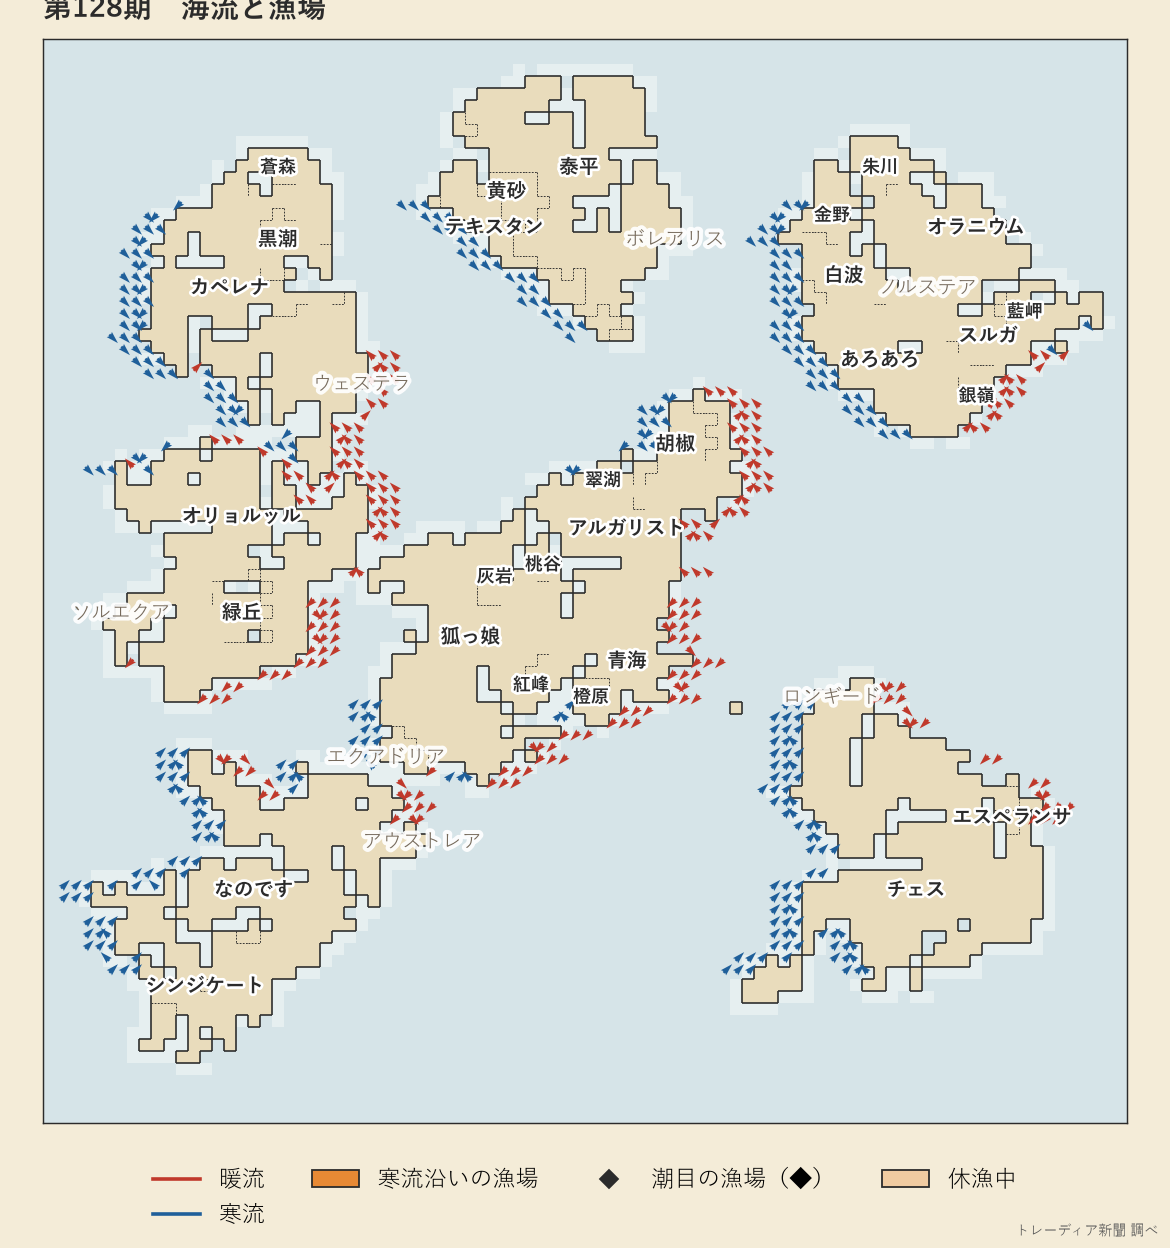
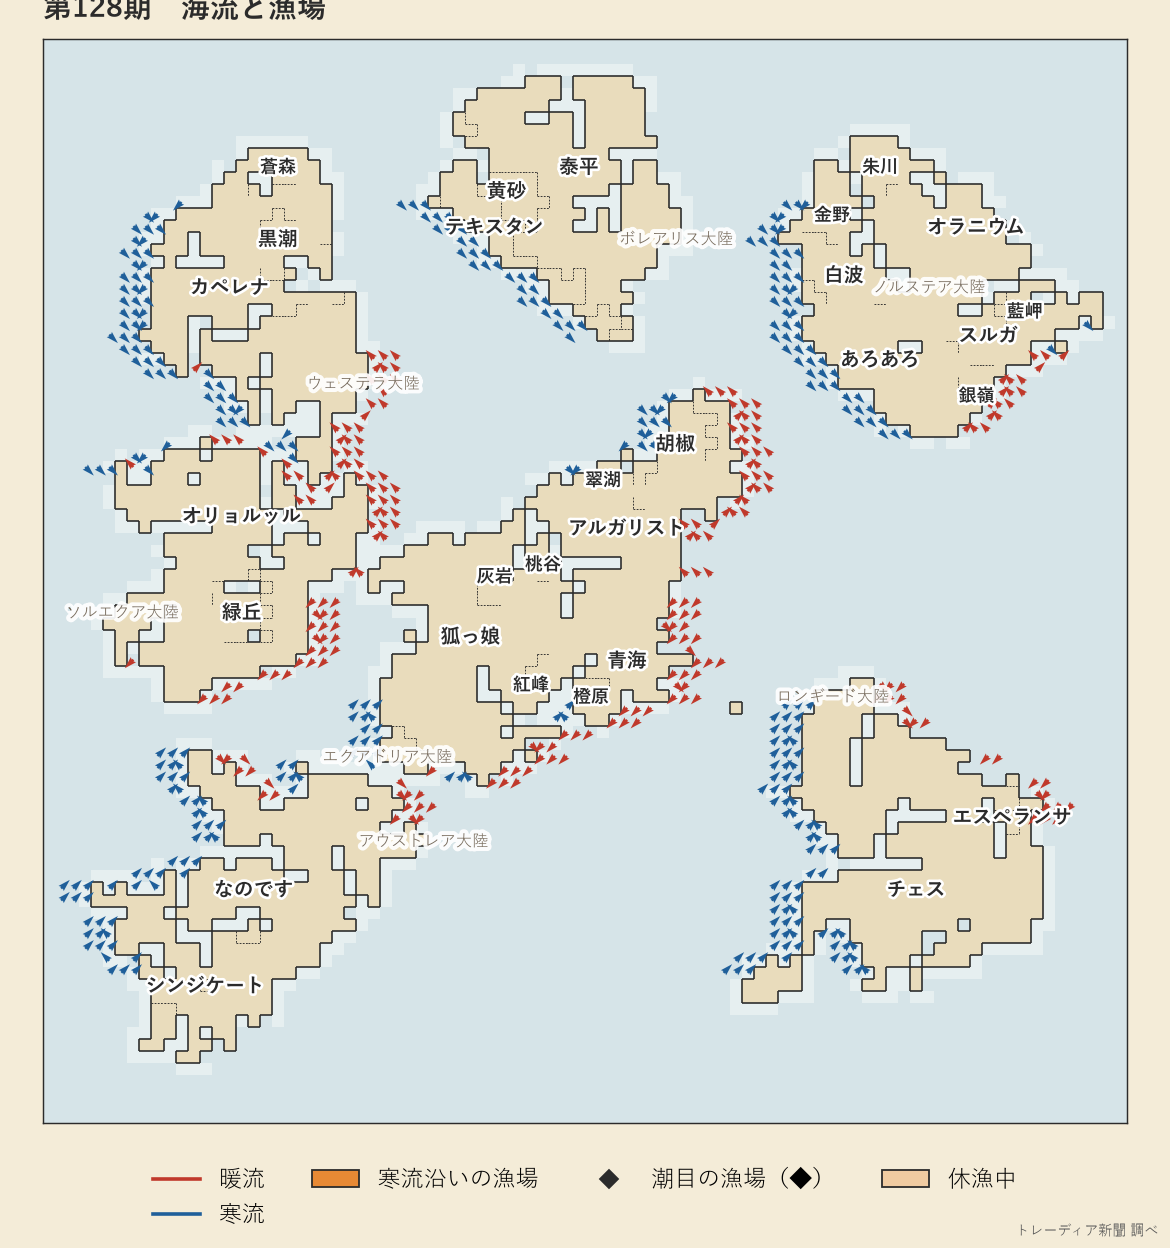
第128期 朝刊

diff --git a/issues/128-朝刊.html b/issues/128-朝刊.html
@@ -650,7 +650,7 @@ b.sea { color: #1f5f7a; font-weight: 800; }
 </header>
 <div class="ticker">
   <span><b>主な記事</b></span>
-  <span>エクアドリアに13か国</span>
+  <span>エクアドリア大陸に13か国</span>
   <span>皇国、新都を失う</span>
   <span>火災32,100人</span>
   <span>弾薬93.52</span>
@@ -664,7 +664,7 @@ b.sea { color: #1f5f7a; font-weight: 800; }
     <div class="sheet-top"><span class="tag">総合</span>大陸を越える<span class="pageno">1</span></div>
     <div class="sheet-body front">
       <div class="story">
-        <h1 class="v-headline">エクアドリアに国は13　<br>都の外から4か国も入る</h1>
+        <h1 class="v-headline">エクアドリア大陸に国は13　<br>都の外から4か国も入る</h1>
         <p class="v-sub">都を置くのは9　陸だけの4はあろあろ、なのです、オリョルッル、泰平</p>
         <figure class="photo">
           <img class="fitphoto" src="../images/128-朝刊/128-shore.jpg" alt="沖の蒸気船から、森の岸へ降りる兵と荷を背負う人々">
@@ -672,12 +672,12 @@ b.sea { color: #1f5f7a; font-weight: 800; }
         </figure>
         <div class="v">
           <p class="lead noindent"><span class="dateline">【総合部】</span>都のある大陸の外に陸を持つ国は、四つある。オリョルッル王国、なのです主義人民共和国、あろあろ国、泰平天国である。</p>
-          <p>今週、新しく外の大陸を占領したのはオリョルッルとなのですである。オリョルッルはウェステラの森と荒地を7区画、エクアドリアの森を2区画取った。故郷のソルエクアでも中立の森と荒地を4区画加え、国の広さは262区画から275区画になった。王国はどの国とも戦争をしていない。人口は661,500人、兵力は487,100人。空は曇り。なのですはウェステラの森を1区画取り、故郷のアウストレアでは中立の森と残党の山をそれぞれ1区画占領した。国の広さは288区画から291区画。人口は926,000人、兵力は459,900人。電都は晴れ。</p>
-          <p>エクアドリアに陸を持つ国は13で、七つの大陸のうちいちばん多い。都を置くのは青海、狐っ娘の尻尾教団、アルガリスト、胡椒、灰岩、紅峰、翠湖、橙原、桃谷の9である。都を別の大陸に置いたまま、この大陸に陸だけを持つ国が4つある。あろあろが16区画、なのです7区画、オリョルッルが5区画、泰平が4区画。首都を今は置けていないエスペランサ皇国の陸は、ロンギードに6区画ある。ロンギードの2か国はチェスと皇国である。13の国が陸を接するエクアドリアは火薬庫のような大陸で、今週はその一つ、泰平がアルガリストへ宣戦した。</p>
-          <p>あろあろの都はノルステアにある。エクアドリアに16区画、ボレアリスに2区画をすでに持つ。今週新しくした陸は、故郷の平地1区画である。</p>
+          <p>今週、新しく外の大陸を占領したのはオリョルッルとなのですである。オリョルッルはウェステラ大陸の森と荒地を7区画、エクアドリア大陸の森を2区画取った。故郷のソルエクア大陸でも中立の森と荒地を4区画加え、国の広さは262区画から275区画になった。王国はどの国とも戦争をしていない。人口は661,500人、兵力は487,100人。空は曇り。なのですはウェステラ大陸の森を1区画取り、故郷のアウストレア大陸では中立の森と残党の山をそれぞれ1区画占領した。国の広さは288区画から291区画。人口は926,000人、兵力は459,900人。電都は晴れ。</p>
+          <p>エクアドリア大陸に陸を持つ国は13で、七つの大陸のうちいちばん多い。都を置くのは青海、狐っ娘の尻尾教団、アルガリスト、胡椒、灰岩、紅峰、翠湖、橙原、桃谷の9である。都を別の大陸に置いたまま、この大陸に陸だけを持つ国が4つある。あろあろが16区画、なのです7区画、オリョルッルが5区画、泰平が4区画。首都を今は置けていないエスペランサ皇国の陸は、ロンギード大陸に6区画ある。ロンギード大陸の2か国はチェスと皇国である。13の国が陸を接するエクアドリア大陸は火薬庫のようで、今週はその一つ、泰平がアルガリストへ宣戦した。</p>
+          <p>あろあろの都はノルステア大陸にある。エクアドリア大陸に16区画、ボレアリス大陸に2区画をすでに持つ。今週新しくした陸は、故郷の平地1区画である。</p>
           <h3>泰平、北の森を広げて宣戦</h3>
-          <p>泰平天国の都・天都はボレアリスにある。エクアドリアには、軍港と大農場を含む4区画をすでに持つ。今週、泰平は故郷のボレアリスで中立の森を4区画広げ、国の広さは147区画から152区画になった。人口は399,100人、兵力は395,500人。人手の不足はゼロ。天都は晴れ。</p>
-          <p>同じ週、泰平はエクアドリアに都を置くアルガリスト帝国へ宣戦を告げた。戦いが始まるのは第133期である。今週、両国のあいだに損害は出ていない。北で森を広げ、南の大陸には足場を残したまま、数週先の戦いを告げた国である。</p>
+          <p>泰平天国の都・天都はボレアリス大陸にある。エクアドリア大陸には、軍港と大農場を含む4区画をすでに持つ。今週、泰平は故郷のボレアリス大陸で中立の森を4区画広げ、国の広さは147区画から152区画になった。人口は399,100人、兵力は395,500人。人手の不足はゼロ。天都は晴れ。</p>
+          <p>同じ週、泰平はエクアドリア大陸に都を置くアルガリスト帝国へ宣戦を告げた。戦いが始まるのは第133期である。今週、両国のあいだに損害は出ていない。北で森を広げ、南の大陸には足場を残したまま、数週先の戦いを告げた国である。</p>
           <p>エスペランサ皇国は、わずか一週で新しい首都の町を失った。詳報は2面。</p>
         </div>
       </div>
@@ -686,29 +686,29 @@ b.sea { color: #1f5f7a; font-weight: 800; }
         <table class="data">
           <caption>都のある大陸の外</caption>
           <tbody>
-            <tr><td>オリョルッル・ウェステラ</td><td class="num">60</td></tr>
-            <tr><td>オリョルッル・エクアドリア</td><td class="num">5</td></tr>
-            <tr><td>なのです・エクアドリア</td><td class="num">7</td></tr>
-            <tr><td>なのです・ウェステラ</td><td class="num">1</td></tr>
-            <tr><td>あろあろ・エクアドリア</td><td class="num">16</td></tr>
-            <tr><td>あろあろ・ボレアリス</td><td class="num">2</td></tr>
-            <tr><td>泰平・エクアドリア</td><td class="num">4</td></tr>
+            <tr><td>オリョルッル・ウェステラ大陸</td><td class="num">60</td></tr>
+            <tr><td>オリョルッル・エクアドリア大陸</td><td class="num">5</td></tr>
+            <tr><td>なのです・エクアドリア大陸</td><td class="num">7</td></tr>
+            <tr><td>なのです・ウェステラ大陸</td><td class="num">1</td></tr>
+            <tr><td>あろあろ・エクアドリア大陸</td><td class="num">16</td></tr>
+            <tr><td>あろあろ・ボレアリス大陸</td><td class="num">2</td></tr>
+            <tr><td>泰平・エクアドリア大陸</td><td class="num">4</td></tr>
           </tbody>
         </table>
-        <p class="noindent">表は陸。オリョルッルの故郷はソルエクア、なのですはアウストレア、あろあろはノルステア、泰平はボレアリス。</p>
+        <p class="noindent">表は陸。オリョルッルの故郷はソルエクア大陸、なのですはアウストレア大陸、あろあろはノルステア大陸、泰平はボレアリス大陸。</p>
         <table class="data">
           <caption>陸を持つ国</caption>
           <tbody>
-            <tr><td>エクアドリア</td><td class="num">13</td></tr>
-            <tr><td>ノルステア</td><td class="num">8</td></tr>
-            <tr><td>ウェステラ</td><td class="num">5</td></tr>
-            <tr><td>ボレアリス</td><td class="num">4</td></tr>
-            <tr><td>ロンギード</td><td class="num">2</td></tr>
-            <tr><td>ソルエクア</td><td class="num">2</td></tr>
-            <tr><td>アウストレア</td><td class="num">2</td></tr>
+            <tr><td>エクアドリア大陸</td><td class="num">13</td></tr>
+            <tr><td>ノルステア大陸</td><td class="num">8</td></tr>
+            <tr><td>ウェステラ大陸</td><td class="num">5</td></tr>
+            <tr><td>ボレアリス大陸</td><td class="num">4</td></tr>
+            <tr><td>ロンギード大陸</td><td class="num">2</td></tr>
+            <tr><td>ソルエクア大陸</td><td class="num">2</td></tr>
+            <tr><td>アウストレア大陸</td><td class="num">2</td></tr>
           </tbody>
         </table>
-        <p class="noindent">陸を1区画以上持つ国。皇国は首都を置いていない。陸6区画はロンギードにあり、そこの2に入る。</p>
+        <p class="noindent">陸を1区画以上持つ国。皇国は首都を置いていない。陸6区画はロンギード大陸にあり、そこの2に入る。</p>
         <div class="column-title">今号の紙面</div>
         <ol class="toc">
           <li><span class="when">1面</span>13か国の大陸</li>
@@ -812,7 +812,7 @@ b.sea { color: #1f5f7a; font-weight: 800; }
           <h3>フィルノアに艦砲</h3>
           <p>カペレナの巡洋艦の砲が、黒潮の現代都市フィルノアに命中した。人口は2,600人から2,400人になり、200人が犠牲となった。戦艦は、南西の森にいる第32軍空兵へ艦砲を向けた。黒潮の駆逐艦は魚雷を放った。今週、カペレナが黒潮に与えた損害は4,200人、黒潮がカペレナに与えた損害は1,100人。これまでの戦果は126,300人と87,900人。</p>
           <h3>泰平、アルガリストへ宣戦</h3>
-          <p>泰平天国はアルガリスト帝国へ宣戦を告げた。戦いが始まるのは第133期である。今週広げた森と、エクアドリアにすでにある足場は1面。</p>
+          <p>泰平天国はアルガリスト帝国へ宣戦を告げた。戦いが始まるのは第133期である。今週広げた森と、エクアドリア大陸にすでにある足場は1面。</p>
         </div>
       </div>
       <div class="cell span-5 yoko ruled-left">

diff --git a/index.html b/index.html
@@ -643,7 +643,7 @@ b.sea { color: #1f5f7a; font-weight: 800; }
 <section class="page">
   <h2 class="page-name"><span class="tag">バックナンバー</span></h2>
   <ul class="archive">
-    <li><a href="issues/128-朝刊.html">第128期 朝刊</a><span class="top">エクアドリアに国は13　都の外から4か国も入る</span></li>
+    <li><a href="issues/128-朝刊.html">第128期 朝刊</a><span class="top">エクアドリア大陸に国は13　都の外から4か国も入る</span></li>
     <li><a href="issues/127-夕刊.html">第127期 夕刊</a><span class="top">皇国、首都を隣町へ　名はエスペランサ</span></li>
     <li><a href="issues/126-朝刊.html">第126期 朝刊</a><span class="top">皇国首都エスペランサ陥落　チェス軍が占領</span></li>
     <li><a href="issues/125-夕刊.html">第125期 夕刊</a><span class="top">旧政府残党の「プライム」再び陥落</span></li>
